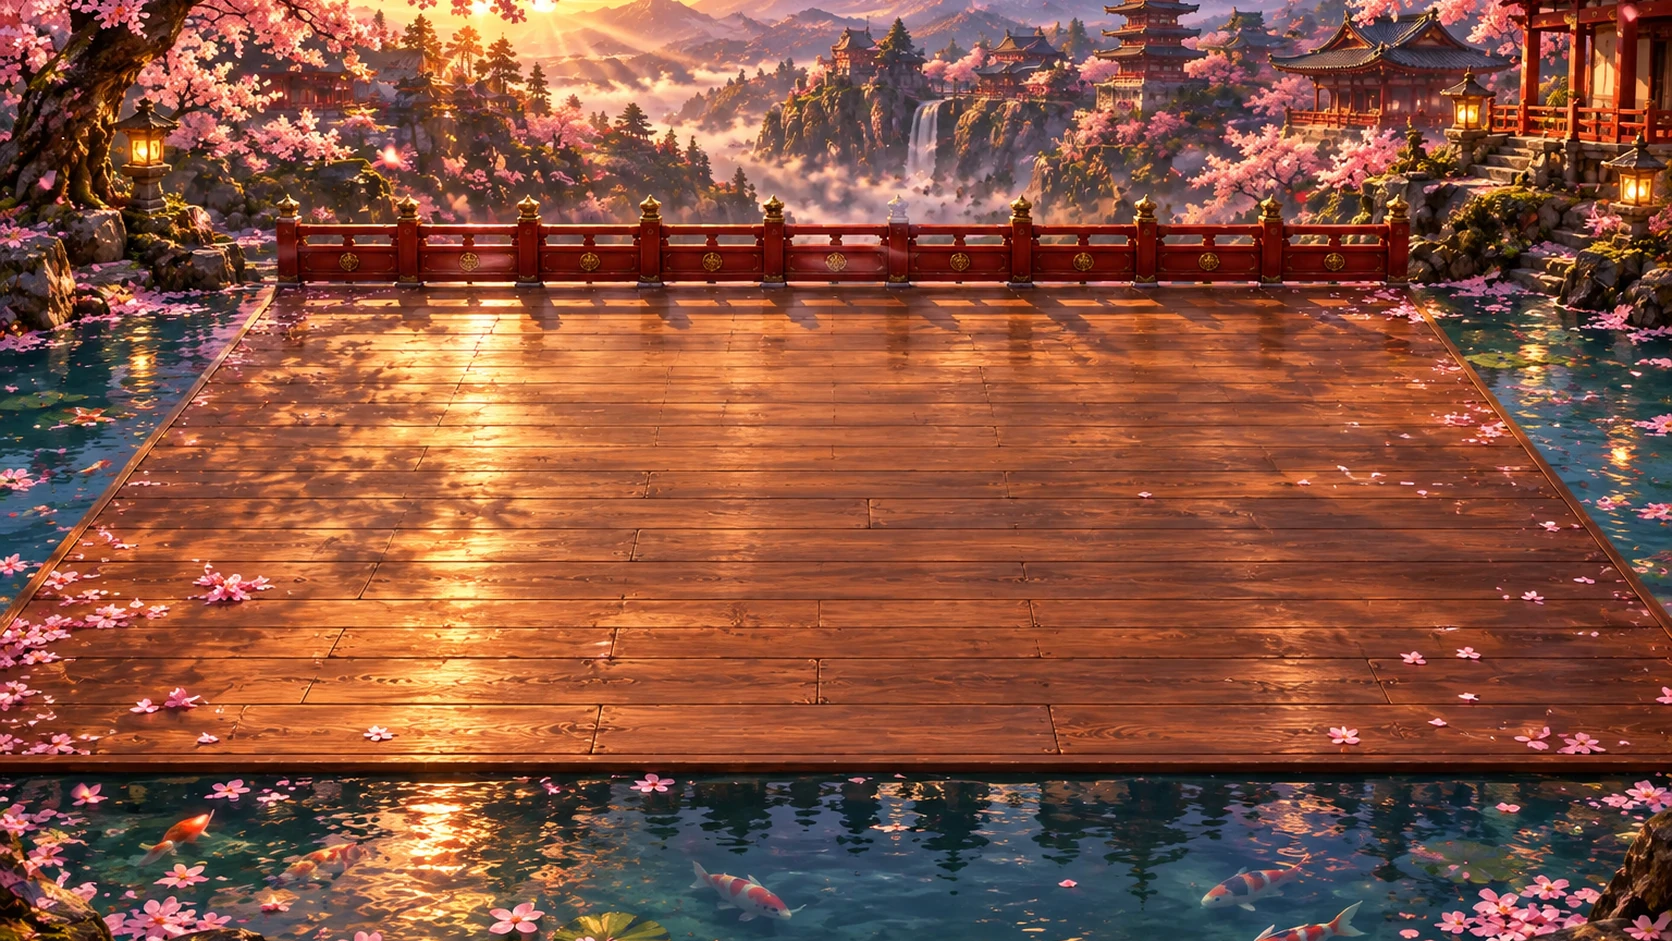
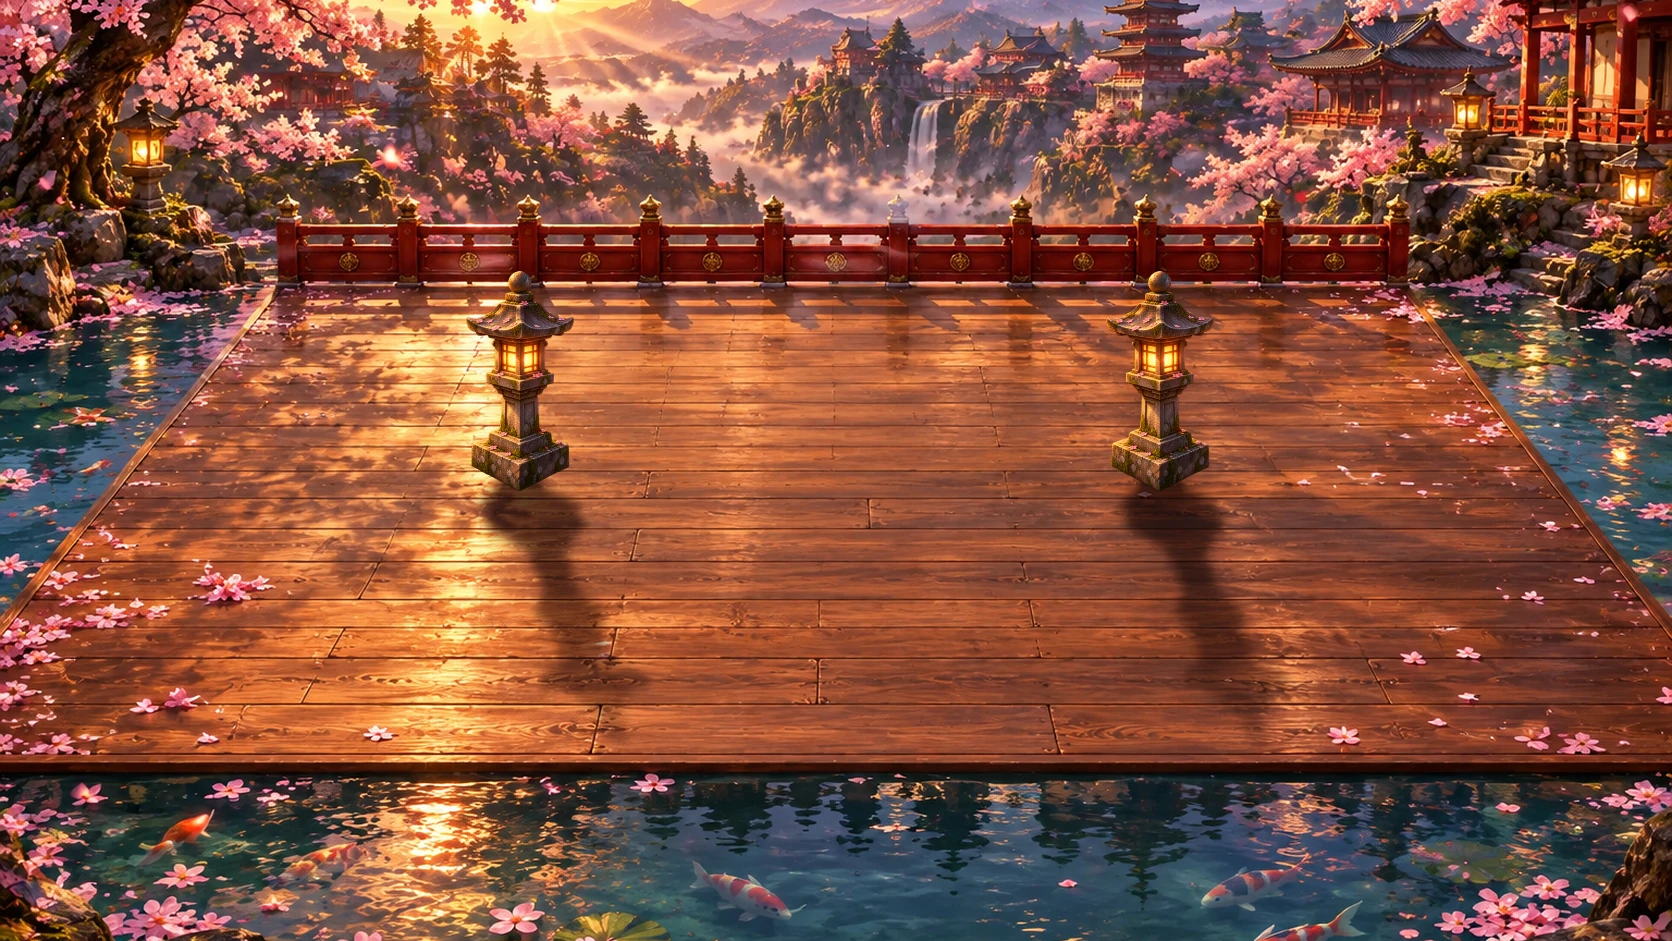
Sakura Temple: two tall stone lanterns on the deck (painted in with their shadows toward the camera): cover to hide behind, left and right
Claude-Session: https://claude.ai/code/session_019q8CMrxghbNzj8w42KsHoP

Changed region(s): [[0.6531, 0.2774, 0.7775, 0.8013], [0.2799, 0.2774, 0.4043, 0.8013]]

diff --git a/src/world/Stages.ts b/src/world/Stages.ts
@@ -31,10 +31,17 @@ const COURTYARD_GEO: StageGeo = {
   centre: [838, 640],
 };
 
-/** The Sakura Temple: a wide wooden deck over a koi pond, the water along its sides and in front, a red railing behind. */
+/** The Sakura Temple: a wide wooden deck over a koi pond, the water along its sides and in front, a red railing behind,
+ *  two stone lanterns to hide behind. */
 const SAKURA_GEO: StageGeo = {
   floor: [[287, 300], [1398, 300], [1652, 596], [1652, 752], [20, 752], [20, 616]],
-  props: [],
+  props: [
+    // two tall stone lanterns at the back of the deck, left and right: cover to hide behind (nobody stands on them)
+    { id: 'stone-lantern-l', footprint: [[520, 428], [569, 455], [520, 482], [471, 455]], height: 220, cover: 'hard', frontY: 482,
+      occluder: [[517, 271], [508, 280], [512, 291], [505, 294], [506, 300], [481, 317], [467, 317], [466, 322], [477, 334], [487, 334], [495, 339], [492, 342], [495, 347], [495, 367], [486, 373], [486, 381], [503, 395], [500, 427], [491, 431], [487, 438], [472, 444], [471, 464], [520, 490], [568, 466], [568, 445], [552, 438], [548, 431], [538, 425], [536, 395], [553, 381], [553, 373], [544, 368], [544, 347], [547, 344], [544, 339], [552, 334], [561, 335], [568, 330], [573, 318], [554, 316], [534, 301], [533, 294], [526, 291], [530, 286], [529, 277], [524, 272]] },
+    { id: 'stone-lantern-r', footprint: [[1160, 428], [1209, 455], [1160, 482], [1111, 455]], height: 220, cover: 'hard', frontY: 482,
+      occluder: [[1157, 271], [1148, 280], [1152, 291], [1145, 294], [1146, 300], [1121, 317], [1107, 317], [1106, 322], [1117, 334], [1127, 334], [1135, 339], [1132, 342], [1135, 347], [1135, 367], [1126, 373], [1126, 381], [1143, 395], [1140, 427], [1131, 431], [1127, 438], [1112, 444], [1111, 464], [1160, 490], [1208, 466], [1208, 445], [1192, 438], [1188, 431], [1178, 425], [1176, 395], [1193, 381], [1193, 373], [1184, 368], [1184, 347], [1187, 344], [1184, 339], [1192, 334], [1201, 335], [1208, 330], [1213, 318], [1194, 316], [1174, 301], [1173, 294], [1166, 291], [1170, 286], [1169, 277], [1164, 272]] },
+  ],
   spawns: [[840, 700], [330, 690], [1350, 700], [620, 380], [1060, 380], [300, 540], [1390, 520], [840, 540]],
   start: { y: 580, left: 712, right: 968 },
   centre: [840, 560],
